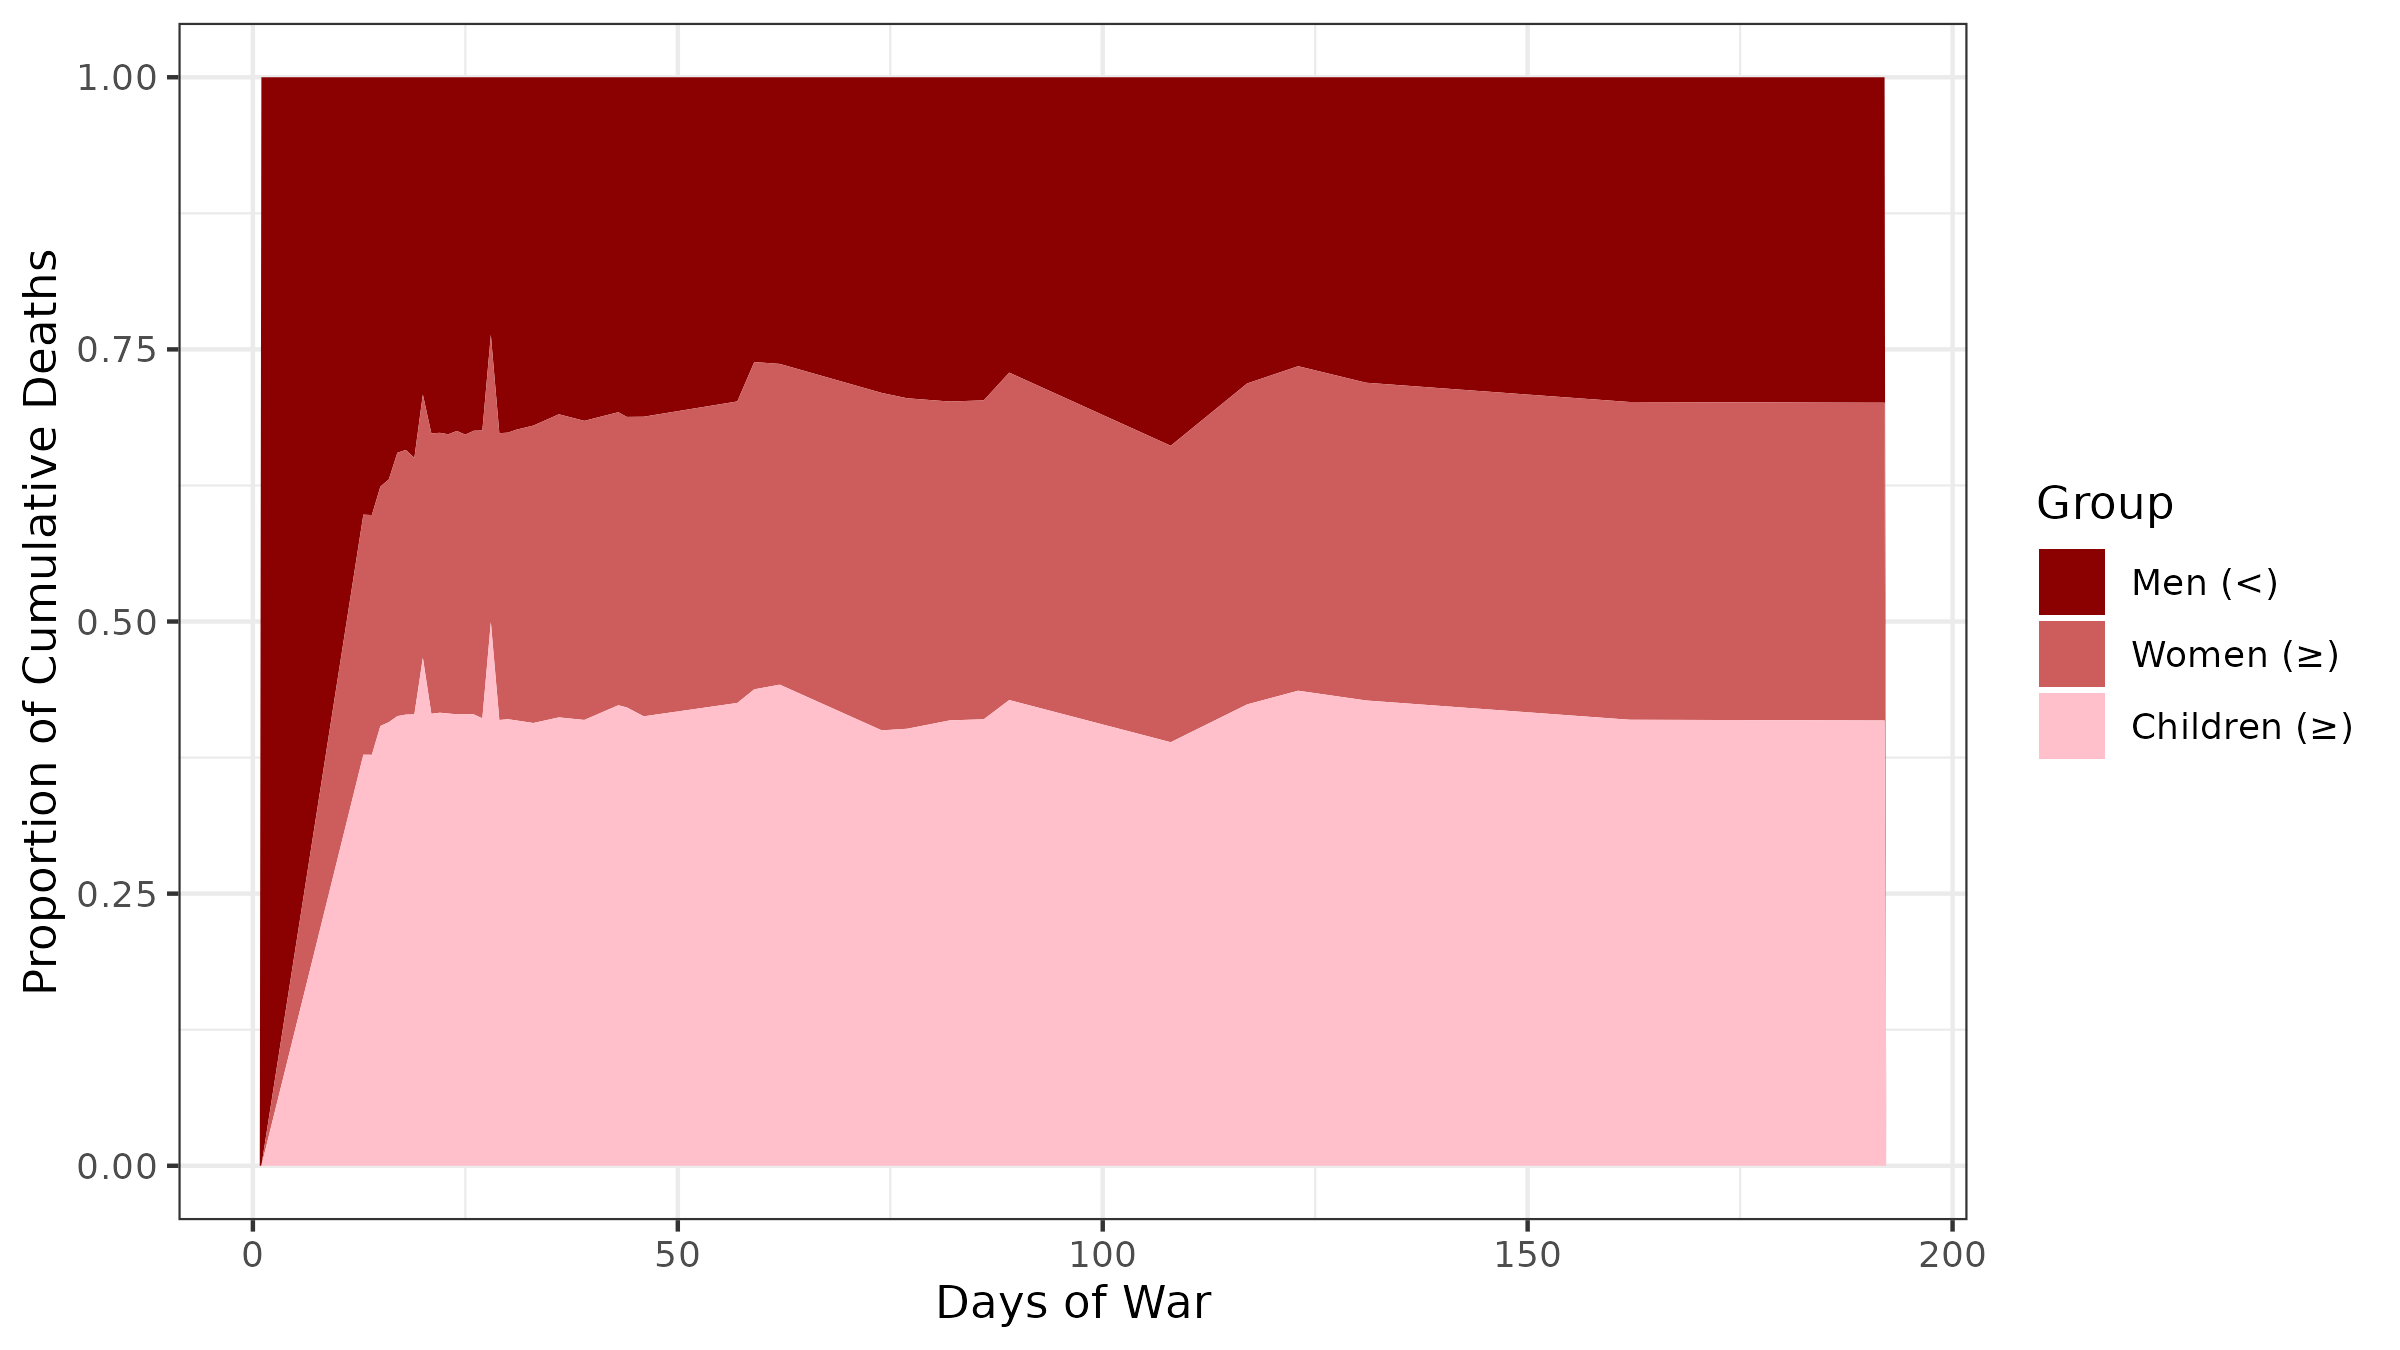
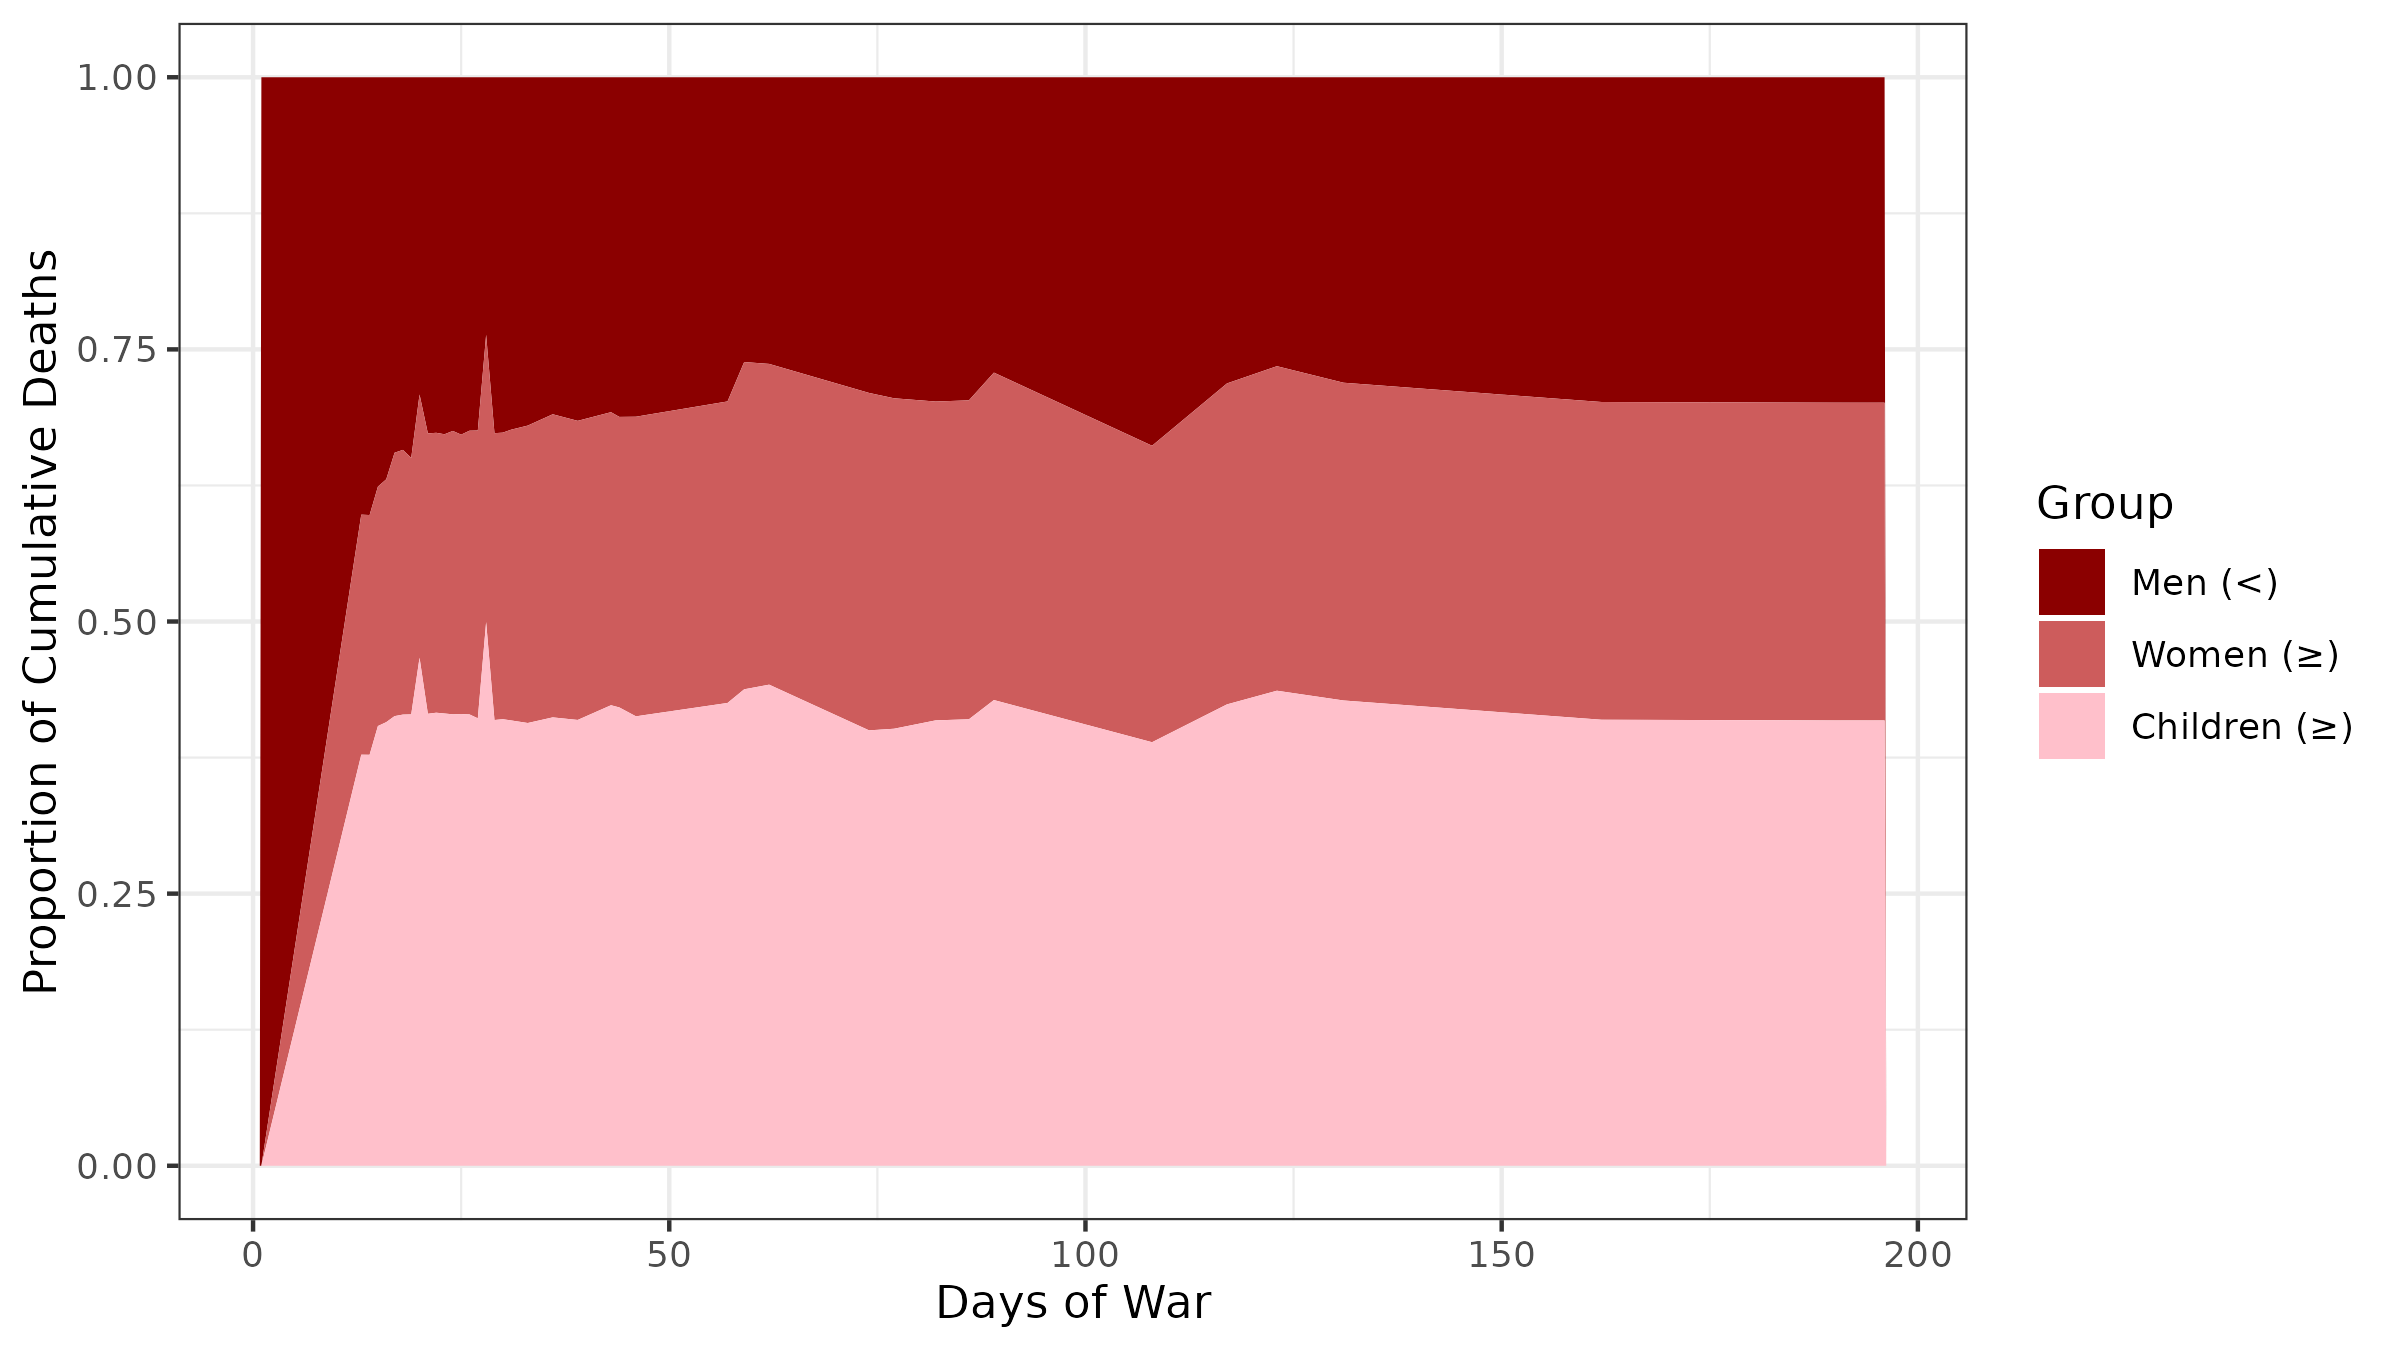
Updated 21 April 2024.

diff --git a/README.md b/README.md
@@ -1,5 +1,5 @@
 Tracking mortality in Palestine following Israel's assault against Gaza (2023-2024). 
-*Last updated 17 April 2024*
+*Last updated 21 April 2024*
 
 # Gaza Conflict Tracker
 
